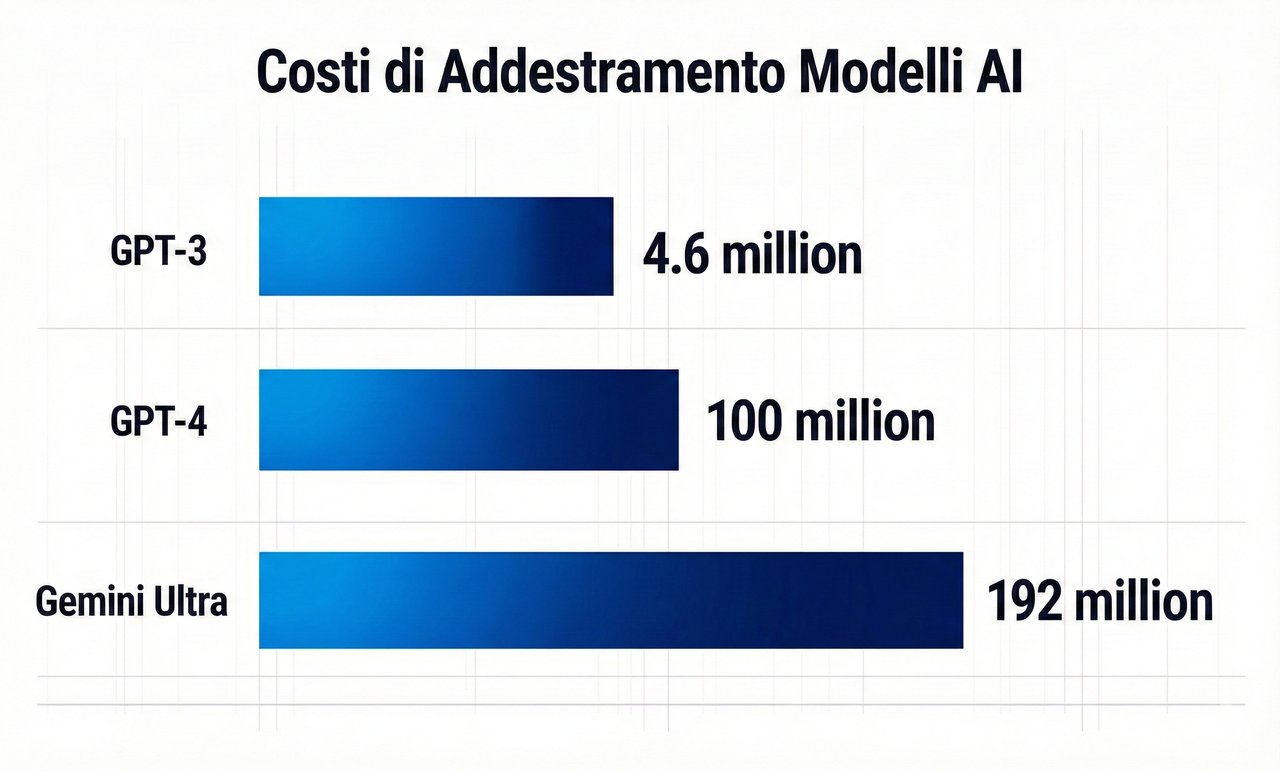
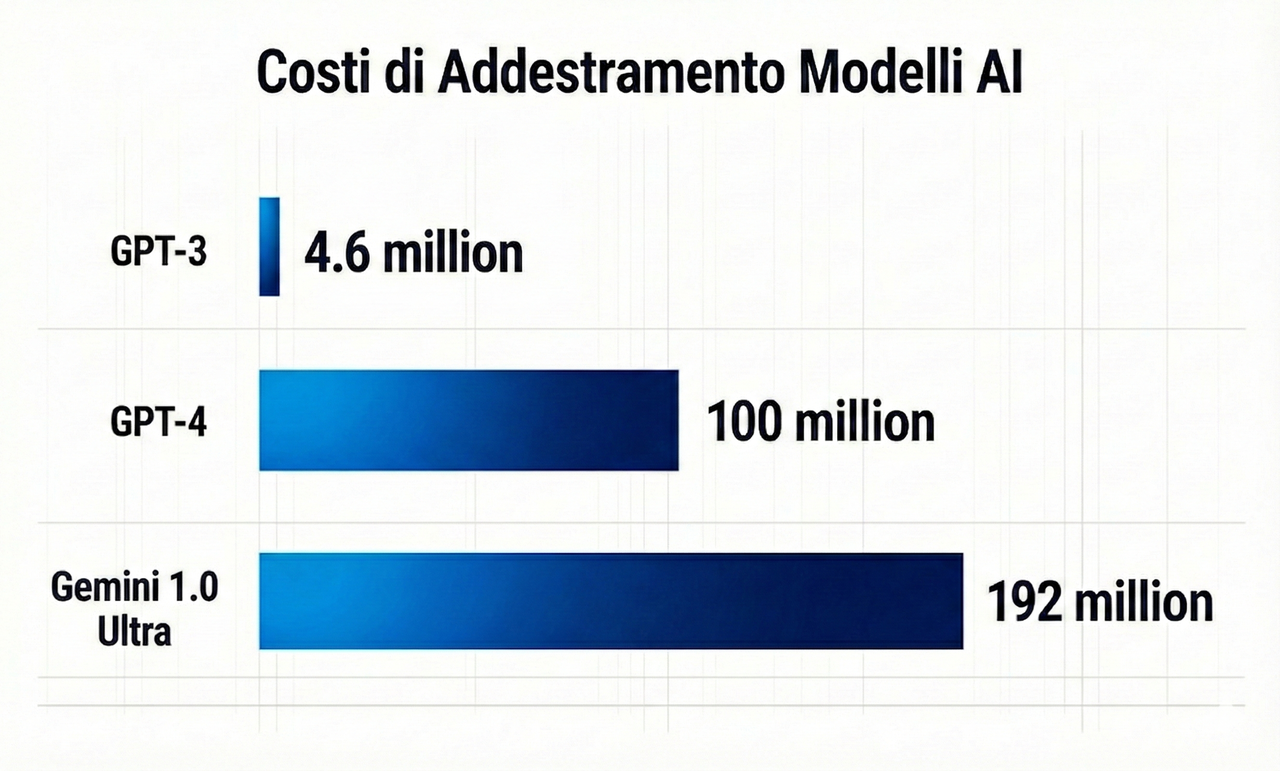
docs: migliorata la parte su AI Act e sul ML

diff --git a/civica/ai/index.md b/civica/ai/index.md
@@ -16,7 +16,8 @@
     - [L'AI Act dell'Unione Europea](#lai-act-dellunione-europea)
       - [L'approccio basato sul rischio](#lapproccio-basato-sul-rischio)
       - [Tempistiche di attuazione](#tempistiche-di-attuazione)
-      - [Sanzioni previste](#sanzioni-previste)
+      - [Sanzioni previste dall'AI Act](#sanzioni-previste-dallai-act)
+      - [Considerazioni sull'AI Act nell'ottica di uno sviluppatore di soluzioni IA](#considerazioni-sullai-act-nellottica-di-uno-sviluppatore-di-soluzioni-ia)
     - [La Risoluzione ONU sull'Intelligenza Artificiale](#la-risoluzione-onu-sullintelligenza-artificiale)
   - [Aspetti economici dell'Intelligenza Artificiale](#aspetti-economici-dellintelligenza-artificiale)
     - [I costi dell'AI generativa](#i-costi-dellai-generativa)
@@ -89,6 +90,10 @@ Il machine learning si articola in diverse tipologie di apprendimento, ciascuna 
 
 [Video introduttivo](https://youtu.be/q6kJ71tEYqM?si=g2rPfG6EmZij_Q4G)
 
+[Funzionamento di una rete neurale - parte 1 -  architettura di base](https://youtu.be/aircAruvnKk?si=Nx1Njg4XvhG5to5k)
+
+[Funzionamento di una rete neurale - parte 2 - backpropagation](https://youtu.be/IHZwWFHWa-w?si=GyMKdk95EK4sD9VE)
+
 Il Deep Learning (DL), traducibile come "apprendimento profondo", rappresenta un sottoinsieme del machine learning che ha rivoluzionato il campo dell'intelligenza artificiale negli ultimi decenni. A differenza del machine learning classico, il deep learning può sfruttare dataset etichettati per informare il proprio algoritmo nell'apprendimento supervisionato, ma non necessariamente richiede un dataset etichettato. È in grado di assimilare dati non strutturati nella loro forma grezza (come testo e immagini) e può determinare automaticamente l'insieme di caratteristiche che distinguono, ad esempio, una "pizza" da un "hamburger" o un "taco".
 
 Le reti neurali artificiali costituiscono l'architettura computazionale alla base del deep learning. Ispirate alla struttura del cervello umano, le reti neurali sono composte da strati (layer) di nodi interconnessi, ciascuno dei quali elabora informazioni e le trasmette agli strati successivi. Una rete neurale profonda (deep neural network) è caratterizzata da molteplici strati nascosti tra lo strato di input e quello di output, consentendo l'apprendimento di rappresentazioni gerarchiche sempre più astratte dei dati. Man mano che si generano sempre più big data, gli scienziati dei dati faranno sempre maggiore uso del machine learning e, in particolare, del deep learning.
@@ -122,11 +127,36 @@ L'AI Act adotta un approccio basato sul rischio, classificando i sistemi di inte
 ![Piramide dei rischi](./images/piramide_rischi_ai.png)
 *Figura 4: I quattro livelli di rischio secondo l'AI Act dell'Unione Europea*
 
-**Rischio inaccettabile**: Tutti i sistemi di AI considerati una minaccia chiara per la sicurezza, i mezzi di sussistenza e i diritti delle persone sono vietati. Esempi includono: manipolazione e inganno basati sull'AI; sfruttamento delle vulnerabilità degli individui; valutazione del rischio individuale di reati o predizione; raccolta indiscriminata di dati per il riconoscimento facciale; riconoscimento delle emozioni in ambienti lavorativi ed educativi; identificazione biometrica remota in tempo reale per scopi di applicazione della legge in spazi pubblici.
+**Rischio inaccettabile**: Tutti i sistemi di AI considerati una minaccia chiara per la sicurezza, i mezzi di sussistenza e i diritti delle persone sono vietati. Esempi includono:
 
-**Alto rischio**: I sistemi ad alto rischio includono tecnologie AI utilizzate in: infrastrutture critiche (es. trasporti) che potrebbero mettere a rischio la vita e la salute dei cittadini; istruzione o formazione professionale che può determinare l'accesso all'istruzione; componenti di sicurezza di prodotti (es. applicazioni AI in chirurgia robot-assistita); impiego e gestione dei lavoratori; servizi privati e pubblici essenziali (es. sistemi di scoring creditizio); applicazione della legge che può interferire con i diritti fondamentali; migrazione, asilo e controllo delle frontiere; amministrazione della giustizia e processi democratici.
+- Manipolazione e inganno basati sull'IA.
+- Sfruttamento delle vulnerabilità degli individui.
+- Valutazione del rischio individuale di reati o predizione.
+- Raccolta indiscriminata di dati per il riconoscimento facciale.
+- Riconoscimento delle emozioni in ambienti lavorativi ed educativi.
+- Identificazione biometrica remota in tempo reale per scopi di applicazione della legge in spazi pubblici.
 
-I sistemi di AI ad alto rischio sono soggetti a obblighi rigorosi prima di poter essere immessi sul mercato: adeguata valutazione e mitigazione dei rischi; alta qualità dei dataset che alimentano il sistema per minimizzare rischi e risultati discriminatori; registrazione delle attività per garantire la tracciabilità dei risultati; documentazione dettagliata che fornisca tutte le informazioni necessarie sul sistema e sul suo scopo; informazioni chiare e adeguate all'utilizzatore; appropriate misure di supervisione umana; elevato livello di robustezza, sicurezza e accuratezza.
+**Alto rischio**: I sistemi ad alto rischio includono tecnologie AI utilizzate in:
+
+- Infrastrutture critiche (es. trasporti) che potrebbero mettere a rischio la vita e la salute dei cittadini
+- Sistemi utilizzati in istituti educativi che determinano l'accesso all'istruzione.
+- Componenti di sicurezza di prodotti (es. applicazioni AI in chirurgia robot-assistita)
+- Impiego e gestione dei lavoratori
+- Servizi privati e pubblici essenziali (es. sistemi di scoring creditizio)
+- Applicazioni nell'ambito dell'applicazione della legge che possono interferire con i diritti fondamentali.
+- Gestione di immigrazione, asilo e controllo delle frontiere
+- Amministrazione della giustizia e processi democratici.
+- Sistemi di identificazione biometrica a distanza.
+
+I sistemi di AI ad alto rischio sono soggetti a obblighi rigorosi prima di poter essere immessi sul mercato: 
+
+- Adeguata valutazione e mitigazione dei rischi
+- Alta qualità dei dataset che alimentano il sistema per minimizzare rischi e risultati discriminatori
+- Registrazione delle attività per garantire la tracciabilità dei risultati
+- Documentazione dettagliata che fornisca tutte le informazioni necessarie sul sistema e sul suo scopo
+- Informazioni chiare e adeguate all'utilizzatore
+- Appropriate misure di supervisione umana
+- Elevato livello di robustezza, sicurezza e accuratezza.
 
 **Rischio limitato**: Si riferisce ai rischi associati alla mancanza di trasparenza nell'uso dell'AI. L'AI Act introduce specifici obblighi di trasparenza per garantire che gli esseri umani siano informati quando necessario. Ad esempio, quando si utilizzano sistemi di AI come chatbot, le persone devono essere consapevoli di interagire con una macchina. I fornitori dovranno anche garantire che i contenuti generati dall'AI siano identificabili.
 
@@ -134,11 +164,59 @@ I sistemi di AI ad alto rischio sono soggetti a obblighi rigorosi prima di poter
 
 #### Tempistiche di attuazione
 
-L'AI Act prevede un'attuazione graduale delle sue disposizioni, con scadenze specifiche calcolate a partire dalla data di entrata in vigore del regolamento. I divieti di pratiche vietate sono applicabili entro 6 mesi dall'entrata in vigore; i codici di condotta devono essere implementati entro 9 mesi; le norme generali sull'AI, compresa la governance, entrano in vigore dopo 12 mesi; gli obblighi per i sistemi ad alto rischio saranno applicabili tra 24 e 36 mesi.
+L'AI Act prevede un'attuazione graduale delle sue disposizioni. A partire dall'entrata in vigore del 2 agosto 2024, le principali scadenze sono: **2 febbraio 2025** (divieti sulle pratiche vietate), **2 maggio 2025** (codici di condotta), **2 agosto 2025** (obblighi per i modelli di IA per finalità generali - GPAI), **2 agosto 2026** (obblighi di trasparenza e parte degli obblighi per i sistemi ad alto rischio, in particolare quelli dell'Allegato III), **2 agosto 2027** (restanti obblighi per i sistemi ad alto rischio, in particolare quelli dell'Allegato I).
 
-#### Sanzioni previste
+#### Sanzioni previste dall'AI Act
 
-Il regolamento stabilisce soglie di sanzione che gli Stati membri devono applicare: fino a 35 milioni di euro o al 7% del fatturato totale annuo a livello mondiale per le violazioni relative alle pratiche vietate o alla non conformità ai requisiti sui dati; fino a 15 milioni di euro o al 3% del fatturato per la mancata osservanza di altri requisiti; fino a 7,5 milioni di euro o all'1,5% del fatturato per la fornitura di informazioni inesatte o fuorvianti. Per ogni categoria di infrazione, la soglia è il minore dei due importi per le PMI e il maggiore per le altre aziende.
+Il regolamento stabilisce delle soglie di sanzione che devono essere prese in considerazione dagli Stati, che le applicheranno:
+
+- Fino a 35 milioni di euro o al 7% del fatturato totale annuo a livello mondiale dell'esercizio finanziario precedente (a seconda di quale sia il valore più alto) per le violazioni relative alle pratiche vietate o alla non conformità ai requisiti sui dati;
+- Fino a 15 milioni di euro o al 3% del fatturato totale annuo a livello mondiale dell'esercizio finanziario precedente per la mancata osservanza di uno qualsiasi degli altri requisiti o obblighi del regolamento, compresa la violazione delle norme sui modelli di IA per uso generale;
+- fino a 7,5 milioni di euro o all'1,5% del fatturato mondiale annuo totale dell'esercizio precedente per la fornitura di informazioni inesatte, incomplete o fuorvianti agli organismi notificati e alle autorità nazionali competenti in risposta a una richiesta;
+
+Per ogni categoria di infrazione, la soglia sarebbe il minore dei due importi per le PMI e il maggiore per le altre aziende.
+
+#### Considerazioni sull'AI Act nell'ottica di uno sviluppatore di soluzioni IA
+
+Il **Regolamento sull'Intelligenza Artificiale (AI Act)** rappresenta il primo quadro normativo completo a livello mondiale volto a regolamentare l'uso dell'intelligenza artificiale nell'Unione Europea. Questo regolamento adotta, come mostrato in precedenza, un approccio basato sul rischio, classificando i sistemi di IA in diverse categorie di rischio e stabilendo obblighi specifici per gli sviluppatori e gli utilizzatori di tali sistemi. Gli sviluppatori che intendono immettere sul mercato sistemi di IA devono adottare misure specifiche in base alla classificazione del rischio del loro sistema:
+
+- **Per Sistemi ad Alto Rischio**:
+
+    - **Valutazione del Rischio**: Identificare e documentare i potenziali rischi associati al sistema di IA.
+    - **Implementazione di Misure di Mitigazione**: Adottare misure tecniche e organizzative per ridurre i rischi identificati.
+    - **Documentazione e Registrazione**: Mantenere una documentazione dettagliata del sistema e registrarlo presso le autorità competenti.
+    - **Trasparenza e Informazione agli Utenti**: Fornire informazioni chiare e comprensibili sul funzionamento del sistema e sui diritti degli utenti.
+    - **Monitoraggio e Reporting**: Implementare sistemi per monitorare il funzionamento del sistema di IA e segnalare eventuali incidenti alle autorità.
+
+- **Per Sistemi a Rischio Limitato**:
+
+    - **Obblighi di Trasparenza**: Informare gli utenti che stanno interagendo con un sistema di IA, garantendo la consapevolezza dell'uso dell'IA.
+
+È fondamentale che gli sviluppatori inizino tempestivamente il processo di conformità all'AI Act, considerando le tempistiche di attuazione previste:
+
+- **Divieti di Pratiche Vietate**: Applicabili dal **2 febbraio 2025**.
+- **Codici di Condotta**: Previsti entro il **2 maggio 2025**.
+- **Obblighi per i Modelli GPAI**: Applicabili dal **2 agosto 2025**.
+- **Obblighi per i Sistemi ad Alto Rischio**: Applicabili dal **2 agosto 2026** (Allegato III) e dal **2 agosto 2027** (Allegato I).
+
+Per chiarire la distinzione tra i due gruppi di sistemi ad alto rischio:
+
+| Categoria | Criterio di classificazione | Esempi tipici |
+|---|---|---|
+| **Allegato III** | Sistemi IA classificati ad alto rischio in base al **contesto d'uso** (ambiti sensibili) | selezione del personale (screening CV), sistemi in istruzione/formazione che incidono su accesso o valutazione, credit scoring e accesso a servizi essenziali, impieghi in giustizia/migrazione/law enforcement |
+| **Allegato I** | Sistemi IA che sono **componenti di sicurezza** (o il prodotto stesso) in prodotti già regolati dalla normativa UE di sicurezza prodotto | dispositivi medici con IA, macchine industriali con funzioni di sicurezza basate su IA, altri prodotti coperti dalla legislazione armonizzata UE che richiede valutazione di conformità |
+
+La non conformità può comportare sanzioni significative, fino a 35 milioni di euro o al 7% del fatturato annuo globale, a seconda di quale sia l'importo maggiore.
+In conclusione, l'AI Act stabilisce un quadro normativo chiaro per garantire che lo sviluppo e l'uso dell'intelligenza artificiale nell'UE siano sicuri, trasparenti e rispettosi dei diritti fondamentali. Gli sviluppatori devono valutare attentamente il livello di rischio dei loro sistemi e adottare le misure necessarie per garantire la conformità al regolamento.
+
+L'**AI Act** prevede un'attuazione graduale delle sue disposizioni, con scadenze calcolate dall'entrata in vigore del **2 agosto 2024** (21 giorni dopo la pubblicazione in Gazzetta Ufficiale dell'Unione Europea). Ecco una spiegazione dettagliata delle tempistiche:
+
+1. **Divieti di Pratiche Vietate**: Queste disposizioni sono applicabili dal **2 febbraio 2025**. Da questa data sono vietate le pratiche considerate inaccettabili, come la manipolazione dannosa o alcuni usi di riconoscimento biometrico in tempo reale in spazi pubblici. 
+2. **Codici di Condotta**: Sono previsti entro il **2 maggio 2025**. I codici di condotta forniscono linee guida operative utili per facilitare la conformità. 
+3. **Obblighi per i Modelli GPAI**: Sono applicabili dal **2 agosto 2025** e includono, tra l'altro, requisiti di trasparenza e documentazione per i fornitori di modelli di IA per finalità generali. 
+4. **Obblighi per i Sistemi ad Alto Rischio**: Entrano in applicazione in due fasi: **2 agosto 2026** (sistemi ad alto rischio dell'Allegato III e obblighi di trasparenza) e **2 agosto 2027** (sistemi ad alto rischio dell'Allegato I). 
+
+È essenziale che le organizzazioni inizino tempestivamente il processo di conformità all'AI Act, considerando queste scadenze, per garantire un'adeguata preparazione e conformità alle nuove normative.
 
 ### La Risoluzione ONU sull'Intelligenza Artificiale
 
@@ -150,14 +228,16 @@ L'Assemblea ha esortato tutti gli Stati membri a evitare o interrompere l'impieg
 
 ### I costi dell'AI generativa
 
-Il crescente numero di modelli di linguaggio di grandi dimensioni sul mercato offre notevoli capacità, ma dietro a tali modelli si celano costi sostanziali. La costruzione e l'addestramento di questi modelli sono estremamente costosi, richiedendo migliaia di unità di elaborazione grafica (GPU) per gestire i massicci set di dati da cui i modelli apprendono. Il grafico seguente confronta i costi di addestramento dei principali modelli AI:
+La costruzione e l'addestramento dei modelli di linguaggio di grandi dimensioni sono estremamente costosi, richiedendo migliaia di unita di elaborazione grafica (GPU) per gestire i massicci set di dati da cui i modelli apprendono. Secondo il paper accademico *"The rising costs of training frontier AI models" (Cottier et al., 2024)*, pubblicato su arXiv e citato nello *Stanford HAI AI Index Report 2024*, l'addestramento di GPT-4 ha avuto un costo stimato di 78 milioni di dollari, mentre Gemini 1.0 Ultra di Google ha raggiunto circa 192 milioni di dollari. Il grafico seguente illustra il confronto tra i costi di addestramento dei principali modelli AI:
 
 ![Costi di addestramento dei modelli AI](./images/costi_addestramento_modelli_AI.png)
 *Figura 5: Confronto dei costi di addestramento dei principali modelli AI (in milioni di dollari)*
 
-Come evidenziato dal grafico, i costi di addestramento sono cresciuti in modo esponenziale: mentre GPT-3 richiedeva circa 4,6 milioni di dollari, GPT-4 ha superato i 100 milioni e Gemini Ultra di Google ha raggiunto la cifra record di 192 milioni di dollari. Il solo costo delle GPU può ammontare a milioni di dollari: secondo una panoramica tecnica del modello linguistico GPT-3 di OpenAI, ogni sessione di addestramento richiedeva almeno 5 milioni di dollari di GPU.
+E importante precisare che il dato di 192 milioni di dollari per Gemini 1.0 Ultra deriva da una stima pubblicata nel 2024 nello *Stanford HAI AI Index Report* [^16]. Lo studio di *Cottier et al. (2024)* [^17] ha sviluppato una metodologia dettagliata per stimare i costi di training considerando tre approcci complementari: costo dell'hardware acquistato, costo del noleggio cloud (GPU-hours) e costi energetici e di personale R&D. Per Gemini 1.0 Ultra, il paper nota che il 49% dei costi e attribuito al personale R&D, una percentuale "insolitamente alta" rispetto ad altri modelli frontier. La versione specifica a cui si riferisce la stima e ***Gemini 1.0 Ultra***, la prima versione del modello Ultra annunciata da Google nel dicembre 2023 e rilasciata pubblicamente nel febbraio 2024.
 
-I costi non si limitano all'addestramento: l'esecuzione di inferenze sui modelli, una volta addestrati, è parimenti costosa. Si stima che il costo di inferenza di GPT-4 sia proiettato a 2,3 miliardi di dollari nel 2024, circa 15 volte il suo costo di addestramento. Questo evidenzia come l'uso esclusivo di modelli massicci possa risultare insostenibile a lungo termine, con alcune stime che indicano che oltre il 99% delle operazioni computazionali potrebbe essere inutilizzato. Il crescente utilizzo di grandi modelli sta inoltre spingendo verso l'alto i prezzi dei data center, dove avviene la computazione.
+I costi non si limitano all'addestramento: l'esecuzione di inferenze sui modelli, una volta addestrati, è parimenti costosa. Si stima che il costo di inferenza di GPT-4 sia stimato a 2,3 miliardi di dollari nel 2024, circa 15 volte il suo costo di addestramento. Questo evidenzia come l'uso esclusivo di modelli massicci possa risultare insostenibile a lungo termine, con alcune stime che indicano che oltre il 99% delle operazioni computazionali potrebbe essere inutilizzato. Il crescente utilizzo di grandi modelli sta inoltre spingendo verso l'alto i prezzi dei data center, dove avviene la computazione.
+
+Come evidenziato dal grafico, i costi di addestramento sono cresciuti in modo esponenziale: mentre GPT-3 richiedeva circa 4,6 milioni di dollari, GPT-4 ha superato i 100 milioni e Gemini Ultra di Google ha raggiunto la cifra record di 192 milioni di dollari. Il solo costo delle GPU può ammontare a milioni di dollari: secondo una panoramica tecnica del modello linguistico GPT-3 di OpenAI, ogni sessione di addestramento richiedeva almeno 5 milioni di dollari di GPU.
 
 ### Il mercato delle GPU e il predominio di NVIDIA
 
@@ -174,11 +254,11 @@ La posizione dominante di NVIDIA ha suscitato preoccupazioni riguardo al vendor 
 
 L'impennata dello sviluppo e dell'adozione dei sistemi di intelligenza artificiale ha sollevato legittime preoccupazioni riguardo al loro impatto ambientale, in particolare per quanto attiene al consumo energetico e alle emissioni di gas serra. Secondo l'International Energy Agency (IEA), nel 2024 i data center hanno consumato circa 415 terawatt-ore (TWh) di elettricità, pari a circa l'1,5% del consumo elettrico globale. Questo dato, sebbene significativo, deve essere contestualizzato: rappresenta l'intero settore dei data center, non solo l'AI, e include tutti i servizi cloud, lo streaming video, i servizi di posta elettronica e le infrastrutture web [^5].
 
-Le proiezioni dell'IEA indicano una crescita sostanziale: il consumo elettrico dei data center potrebbe superare i 1.000 TWh entro il 2030, con un tasso di crescita annuo del 15%, oltre quattro volte superiore alla crescita del consumo elettrico totale. Tuttavia, è fondamentale distinguere tra consumo energetico complessivo e impatto ambientale effettivo, poiché molti operatori di data center stanno investendo massicciamente in energia rinnovabile. Google, ad esempio, ha annunciato di aver ridotto le emissioni dei propri data center del 12% nel 2024 rispetto all'anno precedente, nonostante un incremento del 27% nel consumo elettrico, grazie a una maggiore quota di energia proveniente da fonti rinnovabili [^5][^13].
+Le proiezioni dell'IEA indicano una crescita sostanziale: il consumo elettrico dei data center potrebbe superare i 1.000 TWh entro il 2030, con un tasso di crescita annuo del 15%, oltre quattro volte superiore alla crescita del consumo elettrico totale. Tuttavia, è fondamentale distinguere tra consumo energetico complessivo e impatto ambientale effettivo, poiché molti operatori di data center stanno investendo massicciamente in energia rinnovabile. Google, ad esempio, ha annunciato di aver ridotto le emissioni dei propri data center del 12% nel 2024 rispetto all'anno precedente, nonostante un incremento del 27% nel consumo elettrico, grazie a una maggiore quota di energia proveniente da fonti rinnovabili [^5],[^13].
 
 ### Training vs Inference: dove si consuma di più?
 
-Una distinzione cruciale spesso trascurata nel dibattito pubblico riguarda la differenza tra il consumo energetico necessario per l'addestramento (training) di un modello AI e quello richiesto per la sua successiva utilizzazione (inference). L'addestramento di modelli su larga scala come GPT-4 ha richiesto, secondo stime del MIT Technology Review, circa 50 gigawatt-ore di elettricità, con emissioni stimate tra 12.000 e 15.000 tonnellate di CO2 equivalente. Questi valori, pur essendo significativi, rappresentano un evento una tantum per ciascuna versione del modello [^7][^8].
+Una distinzione cruciale spesso trascurata nel dibattito pubblico riguarda la differenza tra il consumo energetico necessario per l'addestramento (training) di un modello AI e quello richiesto per la sua successiva utilizzazione (inference). L'addestramento di modelli su larga scala come GPT-4 ha richiesto, secondo stime del MIT Technology Review, circa 50 gigawatt-ore di elettricità, con emissioni stimate tra 12.000 e 15.000 tonnellate di CO2 equivalente. Questi valori, pur essendo significativi, rappresentano un evento una tantum per ciascuna versione del modello [^7],[^8].
 
 L'inference, al contrario, ha un impatto cumulativo potenzialmente molto superiore a causa della scala globale dell'utilizzo. Tuttavia, ricerche recenti di Epoch AI hanno dimostrato che l'efficienza energetica per singola query è migliorata drasticamente: una query a ChatGPT che utilizza GPT-4o consuma circa 0,3 watt-ore, un valore dieci volte inferiore rispetto a stime precedenti relative a versioni meno ottimizzate. Secondo Google Cloud, l'impatto energetico medio per singolo prompt AI è equivalente a guardare la televisione per meno di nove secondi. Questo dato aiuta a contestualizzare le preoccupazioni circa l'"onerosità estrema" dell'AI in termini energetici: sebbene il volume complessivo delle query sia enorme, l'impatto unitario è contenuto e in progressiva riduzione [^9][^11].
 
@@ -259,3 +339,7 @@ Per i futuri professionisti dell'informatica, la sfida non è solo tecnica, ma a
 [^14]: Microsoft. "Environmental Sustainability Report 2025." Disponibile presso: <https://www.microsoft.com/en-us/corporate-responsibility/sustainability/report>
 
 [^15]: Carbon Brief. "AI: Five charts that put data-centre energy use and emissions into context." (2025). Disponibile presso: <https://www.carbonbrief.org/ai-five-charts-that-put-data-centre-energy-use-and-emissions-into-context>
+
+[^16]: Cottier et al. (2024). "The rising costs of training frontier AI models." Disponibile su arXiv: <https://arxiv.org/abs/2405.21015>
+
+[^17]: Stanford HAI. "AI Index Report 2024." Disponibile presso: <https://hai.stanford.edu/ai-index/2024-ai-index-report>
